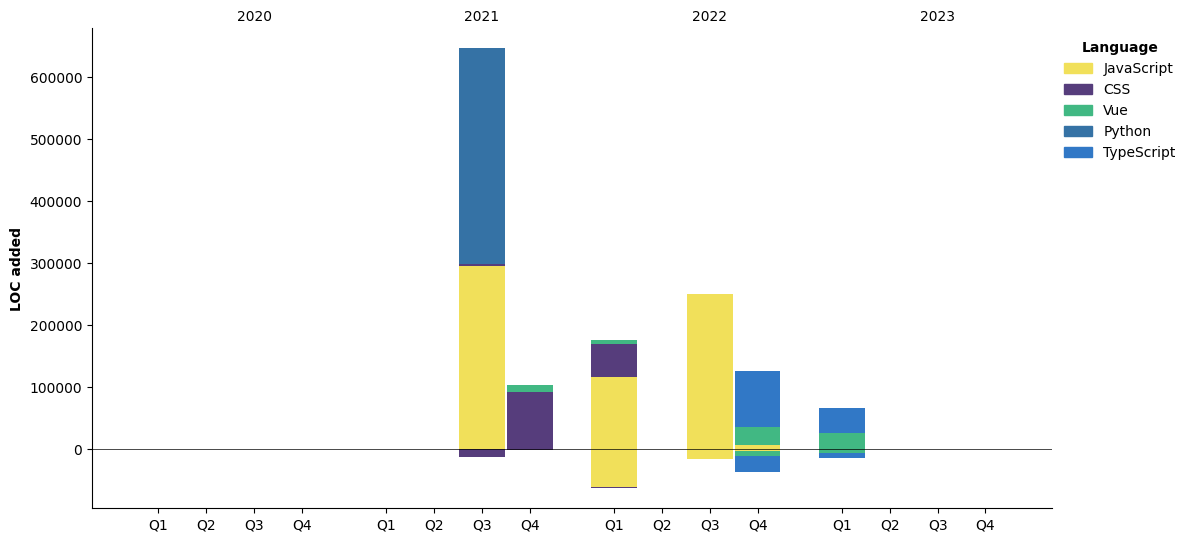
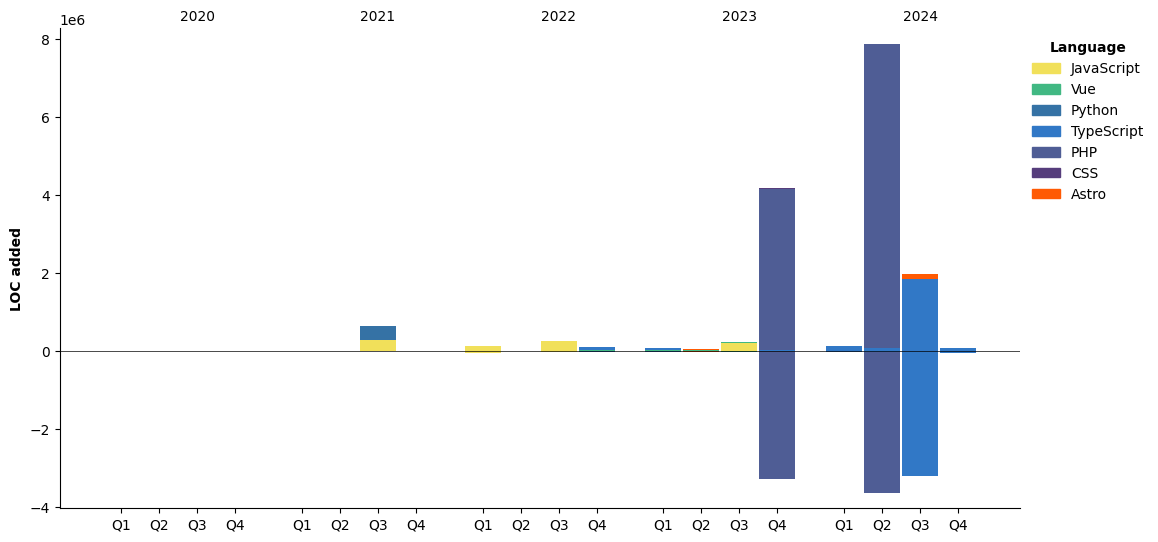
Updated with Dev Metrics

diff --git a/README.md b/README.md
@@ -15,46 +15,75 @@ I'm Jorge Luis Hernández, Full Stack Software Developer :sunglasses:. I love pr
 <!--START_SECTION:waka-->
 ![Code Time](http://img.shields.io/badge/Code%20Time-0%20secs-blue)
 
+![Profile Views](http://img.shields.io/badge/Profile%20Views-0-blue)
+
+**🐱 My GitHub Data** 
+
+> 📦 ? Used in GitHub's Storage 
+ > 
+> 🏆 1,374 Contributions in the Year 2024
+ > 
+> 🚫 Not Opted to Hire
+ > 
+> 📜 10 Public Repositories 
+ > 
+> 🔑 0 Private Repositories 
+ > 
 **I'm an Early 🐤** 
 
 ```text
-🌞 Morning                2583 commits        █████████░░░░░░░░░░░░░░░░   35.56 % 
-🌆 Daytime                3848 commits        █████████████░░░░░░░░░░░░   52.98 % 
-🌃 Evening                808 commits         ███░░░░░░░░░░░░░░░░░░░░░░   11.12 % 
+🌞 Morning                2572 commits        █████████░░░░░░░░░░░░░░░░   35.51 % 
+🌆 Daytime                3848 commits        █████████████░░░░░░░░░░░░   53.13 % 
+🌃 Evening                799 commits         ███░░░░░░░░░░░░░░░░░░░░░░   11.03 % 
 🌙 Night                  24 commits          ░░░░░░░░░░░░░░░░░░░░░░░░░   00.33 % 
 ```
 📅 **I'm Most Productive on Tuesday** 
 
 ```text
-Monday                   1486 commits        █████░░░░░░░░░░░░░░░░░░░░   20.46 % 
-Tuesday                  1652 commits        ██████░░░░░░░░░░░░░░░░░░░   22.75 % 
-Wednesday                1279 commits        ████░░░░░░░░░░░░░░░░░░░░░   17.61 % 
-Thursday                 1369 commits        █████░░░░░░░░░░░░░░░░░░░░   18.85 % 
-Friday                   1157 commits        ████░░░░░░░░░░░░░░░░░░░░░   15.93 % 
+Monday                   1486 commits        █████░░░░░░░░░░░░░░░░░░░░   20.52 % 
+Tuesday                  1652 commits        ██████░░░░░░░░░░░░░░░░░░░   22.81 % 
+Wednesday                1279 commits        ████░░░░░░░░░░░░░░░░░░░░░   17.66 % 
+Thursday                 1369 commits        █████░░░░░░░░░░░░░░░░░░░░   18.90 % 
+Friday                   1148 commits        ████░░░░░░░░░░░░░░░░░░░░░   15.85 % 
 Saturday                 156 commits         █░░░░░░░░░░░░░░░░░░░░░░░░   02.15 % 
-Sunday                   164 commits         █░░░░░░░░░░░░░░░░░░░░░░░░   02.26 % 
+Sunday                   153 commits         █░░░░░░░░░░░░░░░░░░░░░░░░   02.11 % 
 ```
 
 
 📊 **This Week I Spent My Time On** 
 
 ```text
+🕑 Time Zone: America/Havana
+
 💬 Programming Languages: 
+No Activity Tracked This Week
+
+🔥 Editors: 
+No Activity Tracked This Week
+
+🐱💻 Projects: 
+No Activity Tracked This Week
+
+💻 Operating System: 
 No Activity Tracked This Week
 ```
 
 **I Mostly Code in TypeScript** 
 
 ```text
-TypeScript               17 repos            ███████████░░░░░░░░░░░░░░   45.95 % 
-JavaScript               7 repos             █████░░░░░░░░░░░░░░░░░░░░   18.92 % 
-PHP                      3 repos             ██░░░░░░░░░░░░░░░░░░░░░░░   08.11 % 
-CSS                      2 repos             █░░░░░░░░░░░░░░░░░░░░░░░░   05.41 % 
-Astro                    2 repos             █░░░░░░░░░░░░░░░░░░░░░░░░   05.41 % 
+TypeScript               16 repos            ███████████░░░░░░░░░░░░░░   44.44 % 
+JavaScript               7 repos             █████░░░░░░░░░░░░░░░░░░░░   19.44 % 
+PHP                      3 repos             ██░░░░░░░░░░░░░░░░░░░░░░░   08.33 % 
+CSS                      2 repos             █░░░░░░░░░░░░░░░░░░░░░░░░   05.56 % 
+Astro                    2 repos             █░░░░░░░░░░░░░░░░░░░░░░░░   05.56 % 
 ```
 
 
 
+**Timeline**
 
- Last Updated on 14/11/2024 15:11:38 UTC
+![Lines of Code chart](https://raw.githubusercontent.com/jorgelhd94/jorgelhd94/main/assets/bar_graph.png)
+
+
+ Last Updated on 14/11/2024 15:19:16 UTC
 <!--END_SECTION:waka-->
